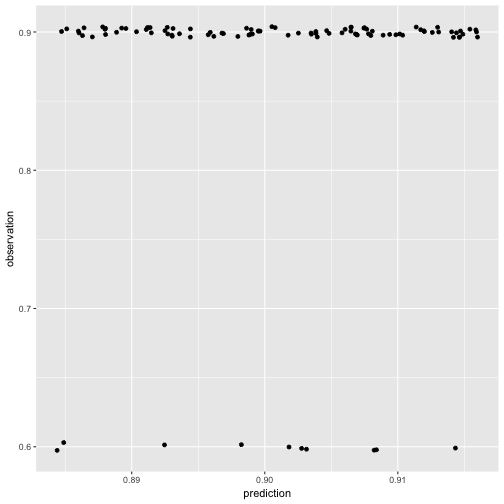
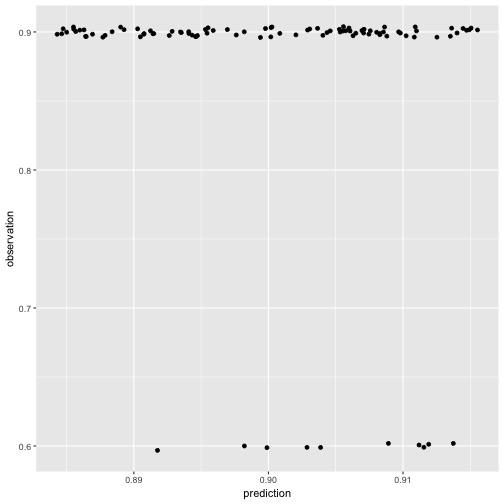
LaTeX fixes

diff --git a/_posts/2017-07-07-BF_computation.md b/_posts/2017-07-07-BF_computation.md
@@ -13,13 +13,13 @@ published: true
  
 A model $$M_i$$, in the Bayesian sense, is a pair consisting of a conditional likelihood function $$P(D \mid \theta, M_i)$$ for observable data $$D$$ together with a prior $$P(\theta \mid M_i)$$ over parameter vector $$\theta$$. Ideally, we might like to assess the absolute probability of model $$M_i$$ after seeing data $$D$$. We can express this quantity using Bayes rule:
  
-$$$$ P(M_i \mid D) = \frac{P(M_i) \ P(D \mid M_i)}{\int P(M_j) \ P(D \mid M_j) \  \text{d} M_j}$$$$ 
+$$ P(M_i \mid D) = \frac{P(M_i) \ P(D \mid M_i)}{\int P(M_j) \ P(D \mid M_j) \  \text{d} M_j}$$ 
  
 Quantifying over the whole class of possible models is dauntingly complex. This likely remains true even for a fixed data set and within a confined sub-genre of models (e.g., all regression models with combinations of a finite set of explanatory factors).
  
 A good solution is to be more modest and to compare just two models to each other.
 How much does the observation of data $$D$$ impact our beliefs about the relative model probabilities? We can express this using Bayes rule as the ratio of our posterior beliefs about models, which eliminates the need to have the normalizing constant for the previous equation.
  
-$$$$\underbrace{\frac{P(M_1 \mid D)}{P(M_2 \mid D)}}_{\text{posterior odds}} =   \underbrace{\frac{P(M_1)}{P(M_2)}}_{\text{prior odds}} \ \underbrace{\frac{P(D \mid M_1)}{P(D \mid M_2)}}_{\text{Bayes factor}}$$$$
+$$ \underbrace{\frac{P(M_1 \mid D)}{P(M_2 \mid D)}}_{\text{posterior odds}} =   \underbrace{\frac{P(M_1)}{P(M_2)}}_{\text{prior odds}} \ \underbrace{\frac{P(D \mid M_1)}{P(D \mid M_2)}}_{\text{Bayes factor}} $$
 The fraction on the left-hand side is the posterior odds ratio: our relative beliefs about models $$M_1$$ and $$M_2$$ _after_ seeing data $$D$$. On the right-hand side we have a product of two intuitively interpretable quantities. First, there is the prior odds: our relative beliefs about models $$M_1$$ and $$M_2$$ _before_ seeing data $$D$$. Second, there is the so-called **Bayes factor**. This way of introducing Bayes factors invites to think of them as **the factor by which our prior odds change in the light of the data**.
  

diff --git a/_posts/2017-02-27-CorrelationMultinomial.md b/_posts/2017-02-27-CorrelationMultinomial.md
@@ -122,7 +122,7 @@ show(qplot(pred, obs) + ylab("observation") + xlab('prediction'))
 ![plot of chunk unnamed-chunk-5](/mfpics/2017-02-27-CorrelationMultinomial.Rmd/unnamed-chunk-5-1.png)
  
  
-The correlation score of 0.9718 is very high (and immensely significant). We are heading towards a publication here!
+The correlation score of 0.9708 is very high (and immensely significant). We are heading towards a publication here!
  
 But wait a minute. Actually, half of our prediction values are superfluous in a sense. If we predict choice probability $$p$$ for one option, the model must predict $$1-p$$ for the other, of course. Similarly if the observed choice frequency of one option is $$f$$, that of the other must be $$1-f$$. So what happens if we scrap the redundant part of our data? Let's grab the predictions and frequencies for only one of the two options:
  
@@ -135,7 +135,7 @@ show(qplot(predInd, obsInd) + ylab("observation") + xlab('prediction'))
 
 ![plot of chunk unnamed-chunk-6](/mfpics/2017-02-27-CorrelationMultinomial.Rmd/unnamed-chunk-6-1.png)
  
-That doesn't look like a tremendous achievement anymore and, indeed, the correlation score is a poor man's 0.0425. 
+That doesn't look like a tremendous achievement anymore and, indeed, the correlation score is a poor man's -0.1771. 
  
 Bottomline: if we look at what the model predicts for both choice options, we get a very high correlation. But predictions and observations for one choice option fully determine the other, so this part of the information seems entirely redundant. Yet, if we leave it out, our measure of glory plummets. What to make of this?
  
